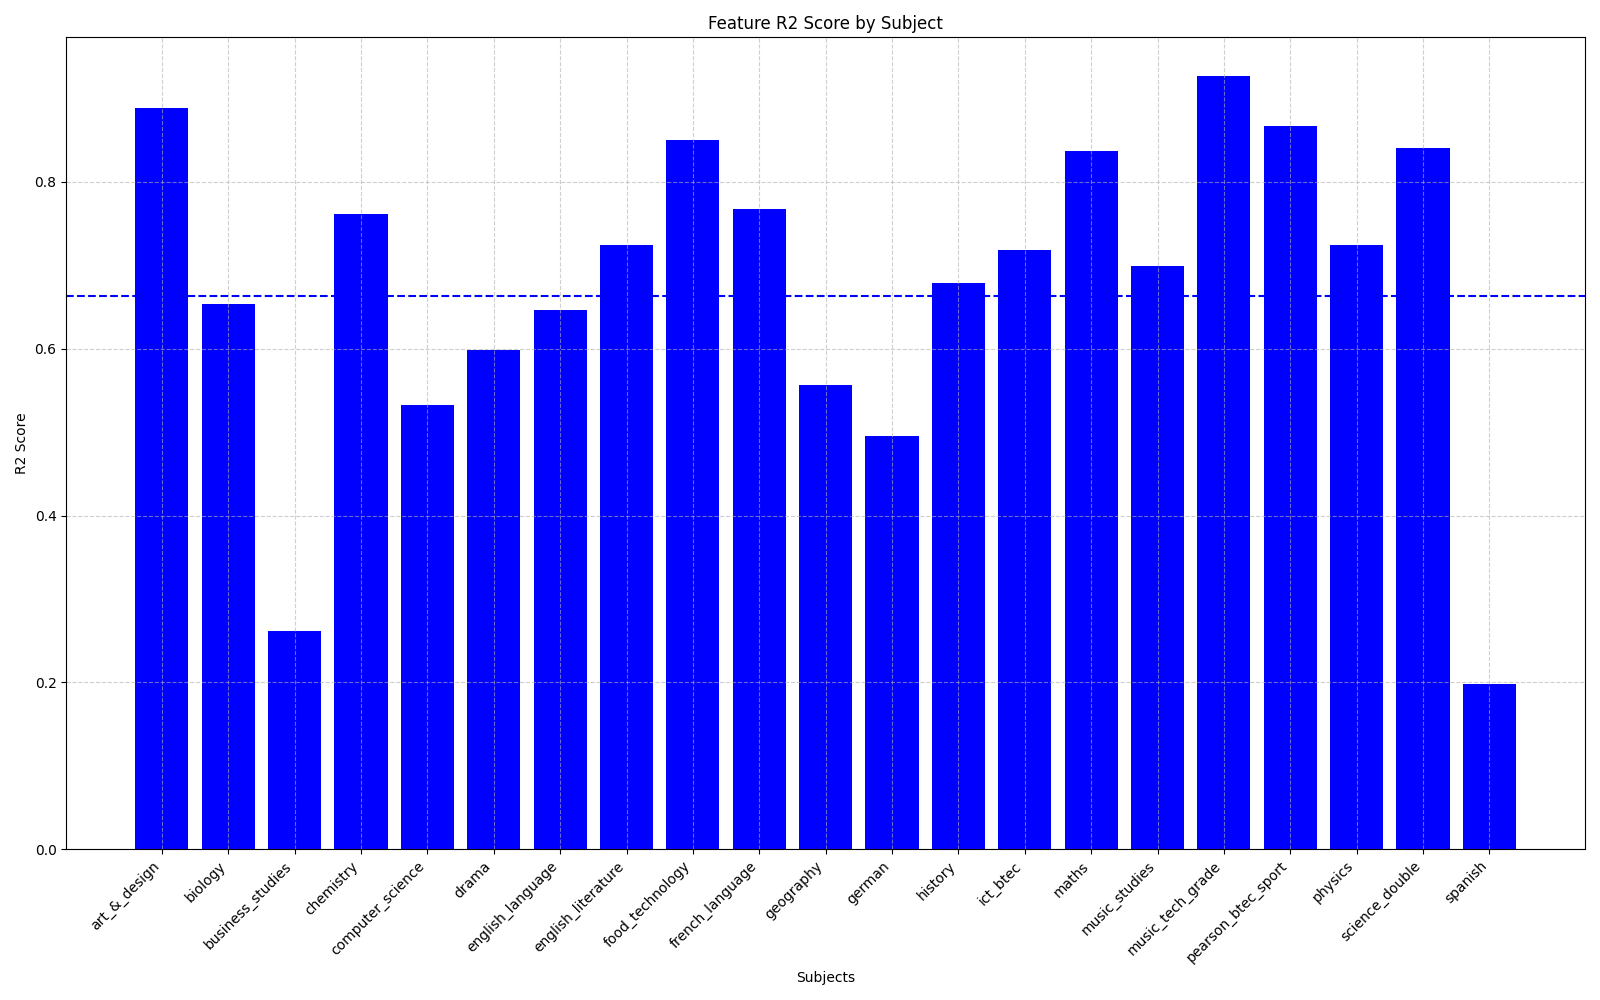
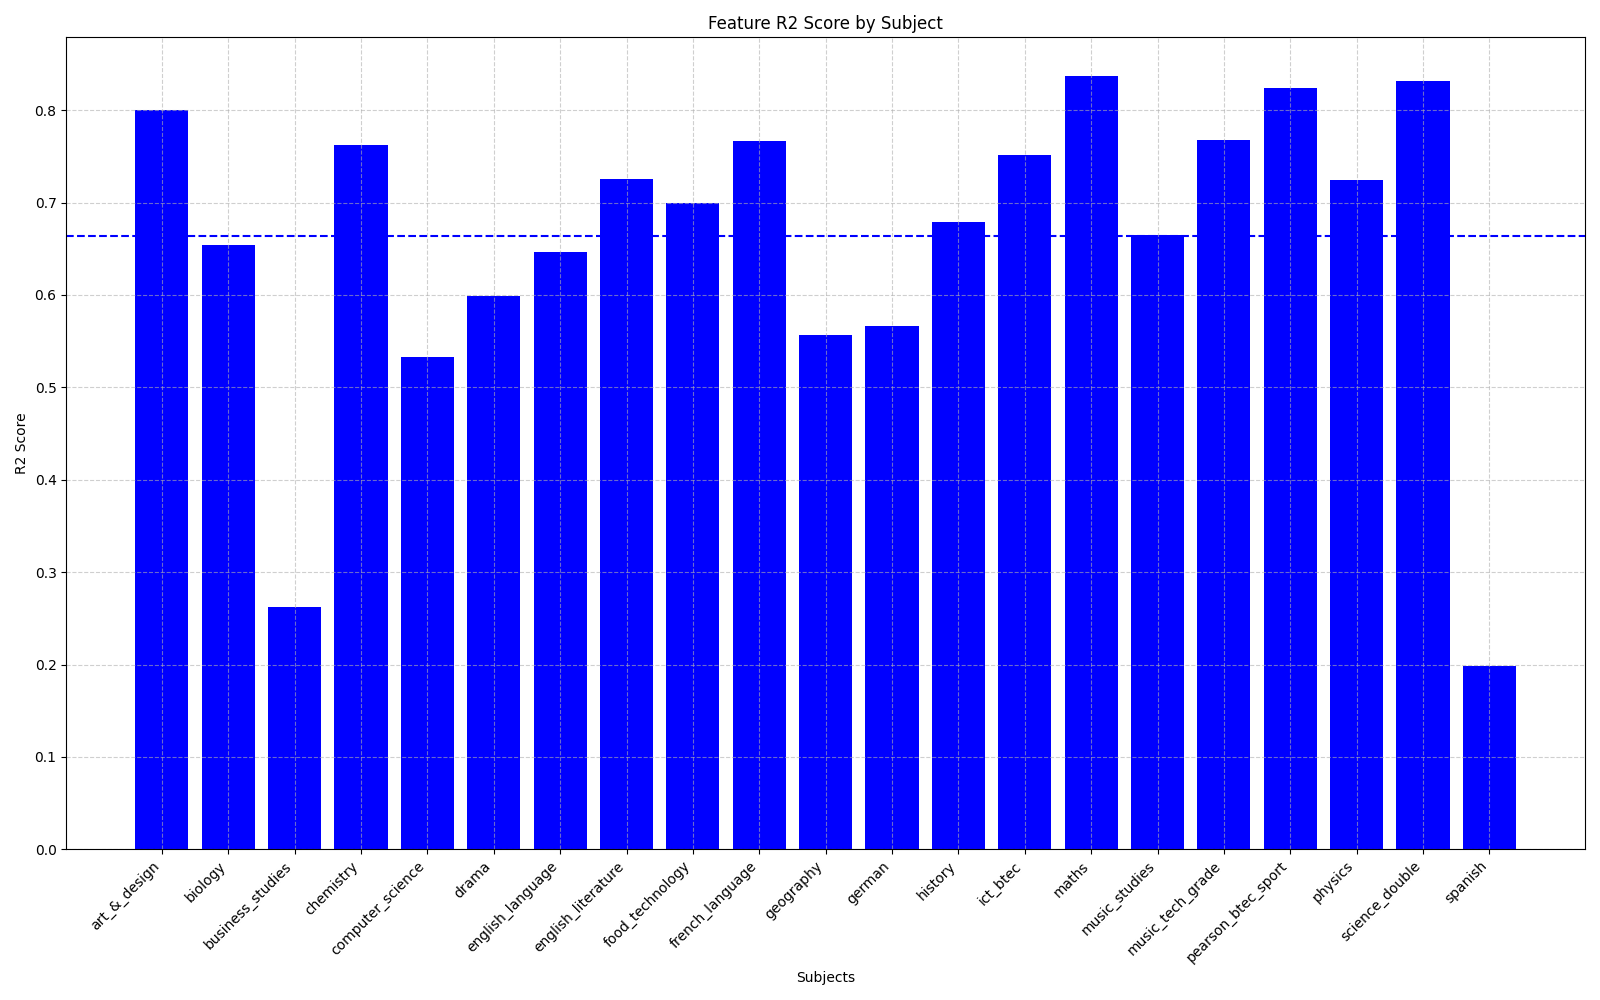
Added ridge params, updated model to include right ones

diff --git a/ridge_params.py b/ridge_params.py
@@ -1,0 +1,76 @@
+import pandas as pd
+import re
+from sklearn.linear_model import Ridge
+from sklearn.model_selection import GridSearchCV
+import subject_list
+
+# Define a list of subjects
+subjects = subject_list.prediction_subjects()
+
+# Create a DataFrame to store the alpha scores
+alpha_scores = []
+
+# Loop through the subjects
+for subject in subjects:
+    # regex for none standard grade endings
+    regex_pattern = re.compile(rf'{subject}.*_real')
+    # Load the data for the model
+    subject_model = subject + '.csv'
+    predictor = pd.read_csv('model_csvs/' + subject_model)
+
+    predictor.drop(columns=['upn'], inplace=True)
+
+    # Create an empty DataFrame to store the encoded columns
+    encoded_columns = pd.DataFrame()
+
+    for col in predictor.columns:
+        if 'btec' in subject or 'tech_' in subject:
+            grade_mapping = subject_list.grades_mapped()
+            if re.match(rf'{subject}.*_(ap1|ap2|real)', col):
+                encoded_columns[col] = predictor[col].map(grade_mapping)
+        if col == 'gender_ap2':
+            # Use pd.get_dummies for the gender column
+            gender_encoded = pd.get_dummies(predictor[col], prefix=col)
+            encoded_columns = pd.concat([encoded_columns, gender_encoded], axis=1)
+        else:
+            # Keep non-matching columns as they are
+            if col not in encoded_columns.columns:
+                encoded_columns = pd.concat([encoded_columns, predictor[[col]]], axis=1)
+
+    X = encoded_columns.drop(columns=[col for col in encoded_columns.columns if isinstance(col, str) and regex_pattern.match(col) and col != fr'{subject}.*_real'])
+
+    X.columns = X.columns.astype(str)
+
+    if 'btec' in subject or 'tech_' in subject:
+        y_column_pattern = subject + '.*_real.*$'
+    else:
+        # assign patter that is needed for this subject
+        y_column_pattern = subject + '.*_real$'
+    
+    # assin y based on pattern
+    y = encoded_columns.filter(regex=y_column_pattern)
+
+    y = y.values.ravel()
+
+    # Define a range of alpha values to search
+    alphas = [0.01, 0.1, 1.0, 10.0]
+ # Create the Ridge regression model
+    ridge = Ridge()
+
+    # Perform grid search to find the best alpha
+    param_grid = {'alpha': alphas}
+    grid_search = GridSearchCV(ridge, param_grid, cv=5, scoring='r2')  # You can change the scoring metric
+    grid_search.fit(X, y)
+
+    # Get the best alpha from the grid search
+    best_alpha = grid_search.best_params_['alpha']
+
+    # Append the results to the list
+    alpha_scores.append({'Subject': subject, 'Alpha': best_alpha})
+
+# Create a DataFrame from the list
+alpha_scores_df = pd.DataFrame(alpha_scores)
+
+# Save the alpha scores to a CSV file
+alpha_scores_df.to_csv('/workspaces/subject_predictions/models/ridge_params.csv', index=False)
+print('alpha saved')

diff --git a/subject_list.py b/subject_list.py
@@ -37,7 +37,19 @@ def get_models(x, name = None):
         return 'linear_regression', LinearRegression()
     elif 'Ridge' in x:
         from sklearn.linear_model import Ridge
-        return 'ridge', Ridge(alpha=1)  
+        df = pd.read_csv('/workspaces/subject_predictions/models/ridge_params.csv')
+        hyperparameters = {}
+        subject_row = df[df['subject'] == name]
+        if subject_row.empty or subject_row.isnull().values.any():
+            print(f"Hyperparameters for subject '{name}' not found in the CSV.")
+            model = Ridge(alpha=1)
+        else:
+            # Extract hyperparameters as a dictionary
+            for column in df.columns:
+                value = subject_row[column].values[0]
+                if pd.notna(value) and column != 'subject':
+                    hyperparameters[column] = value
+        return 'ridge', Ridge(**hyperparameters)  
     elif 'xgb' in x:
         import xgboost as xgb
         return 'xbg', xgb.XGBRegressor(n_estimators=100, learning_rate=0.1, max_depth=3)

diff --git a/create_model.py b/create_model.py
@@ -12,11 +12,6 @@ import re
 import joblib
 import subject_list
 
-# Code to assign model and name of model based on inported model
-if 'RandomForestRegresssor' in globals():
-    model_name, model = subject_list.get_models(x=globals(), name=subject)
-else:
-    model_name, model = subject_list.get_models(globals())
 
 
 subjects = subject_list.prediction_subjects()
@@ -24,6 +19,12 @@ subjects = subject_list.prediction_subjects()
 results = []
 # Iterate over each subject
 for subject in subjects:
+    # Code to assign model and name of model based on inported model
+    if 'RandomForestRegresssor' in globals():
+        model_name, model = subject_list.get_models(x=globals(), name=subject)
+    else:
+        model_name, model = subject_list.get_models(globals())
+
     print(f'{subject} scores:')
 
     # Regular expression pattern for matching column names related to the subject

diff --git a/model_comparision.py b/model_comparision.py
@@ -6,14 +6,14 @@ import pandas as pd
 ridge_df = pd.read_csv('/workspaces/subject_predictions/ridge_scores/scores.csv')
 # linear_df = pd.read_csv('/workspaces/subject_predictions/linear_regression_scores/scores.csv')
 # random_forest_df = pd.read_csv('/workspaces/subject_predictions/random_forest_scores/scores.csv')
-# teacher_df = pd.read_csv('teacher_scores/scores.csv')
+teacher_df = pd.read_csv('teacher_scores/scores.csv')
 # xbg_df = pd.read_csv('xgb_scores/scores.csv')
 # svr_df = pd.read_csv('svr_scores/scores.csv')
 # bridge_df = pd.read_csv('bridge_scores/scores.csv')
-feature_df = pd.read_csv('feature_scores/scores.csv')
+# feature_df = pd.read_csv('feature_scores/scores.csv')
 
 df1 = ridge_df
-df2 = feature_df
+df2 = teacher_df
 
 try:
     if df1.equals(teacher_df) or df2.equals(teacher_df):

diff --git a/prediction_analysis.py b/prediction_analysis.py
@@ -4,7 +4,7 @@ import seaborn as sns
 import numpy as np
 
 # Update to change model imported and same saved
-model = 'feature'
+model = 'ridge'
 
 # load in dataframe from the model name
 df = pd.read_csv(f'{model}_scores/scores.csv')
